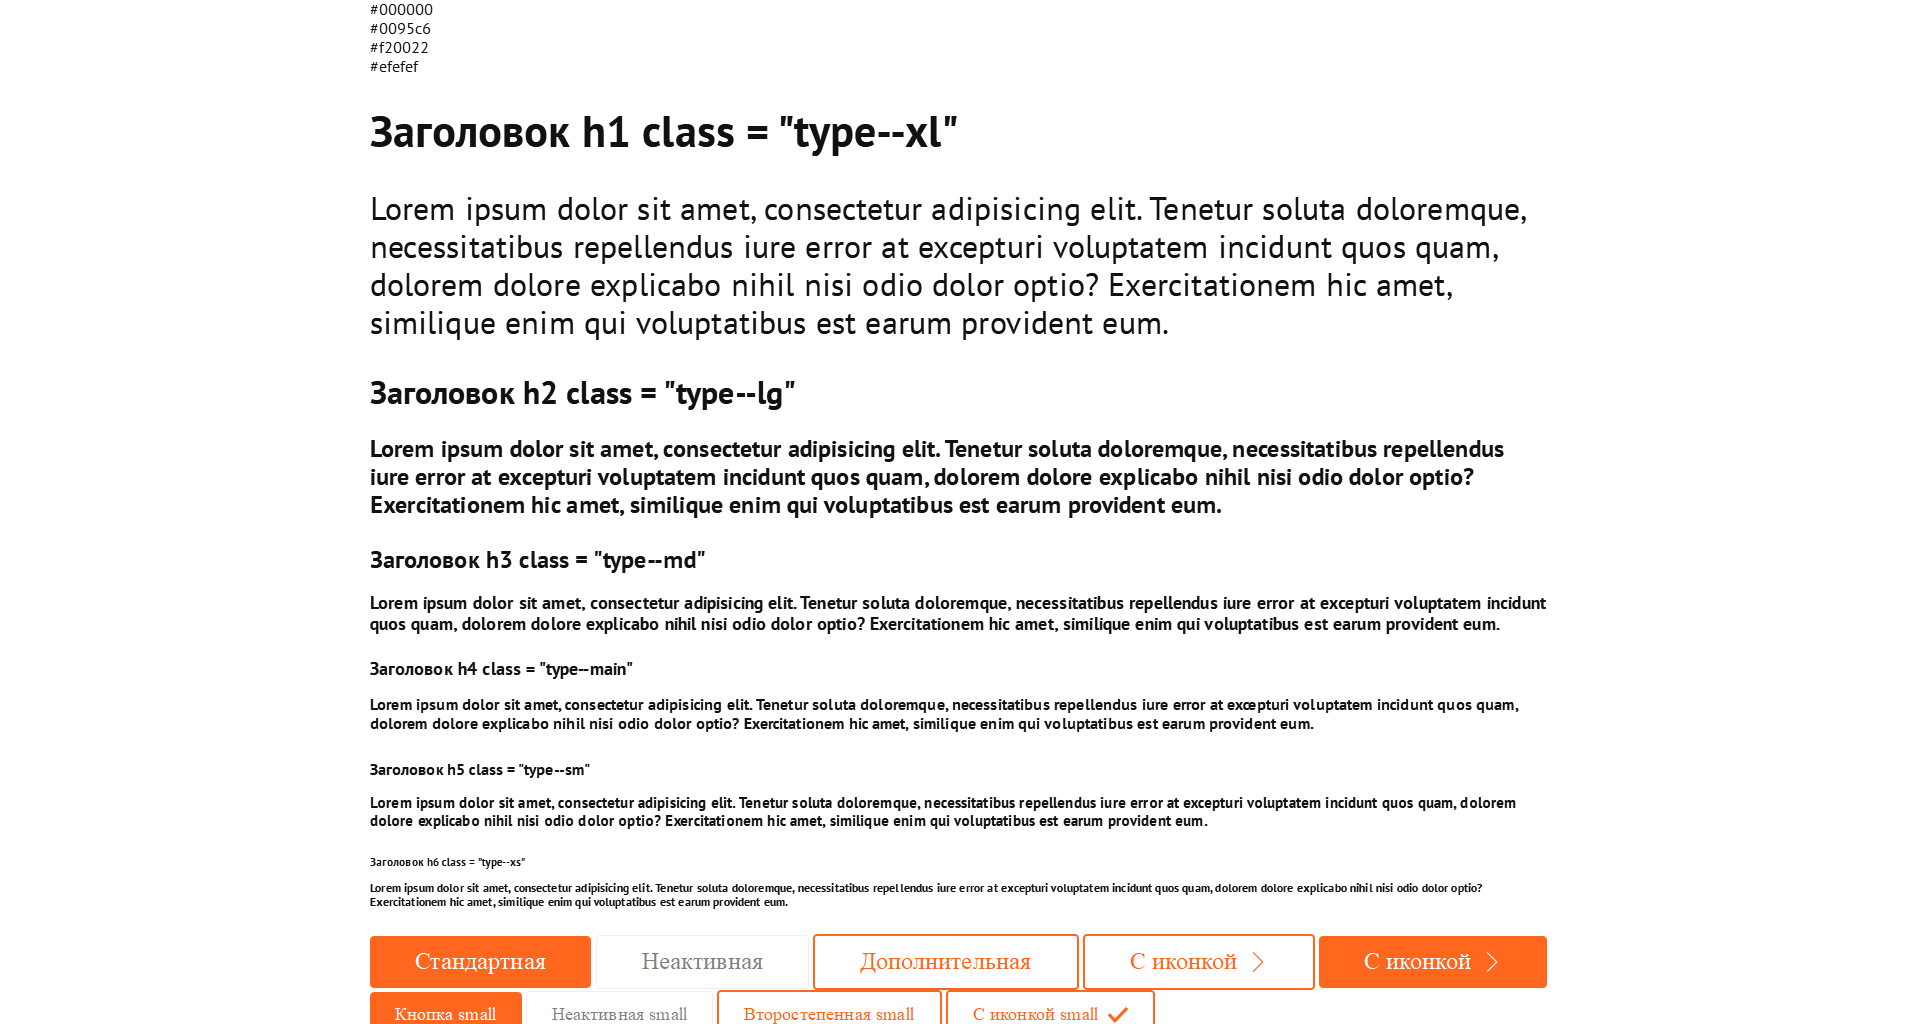
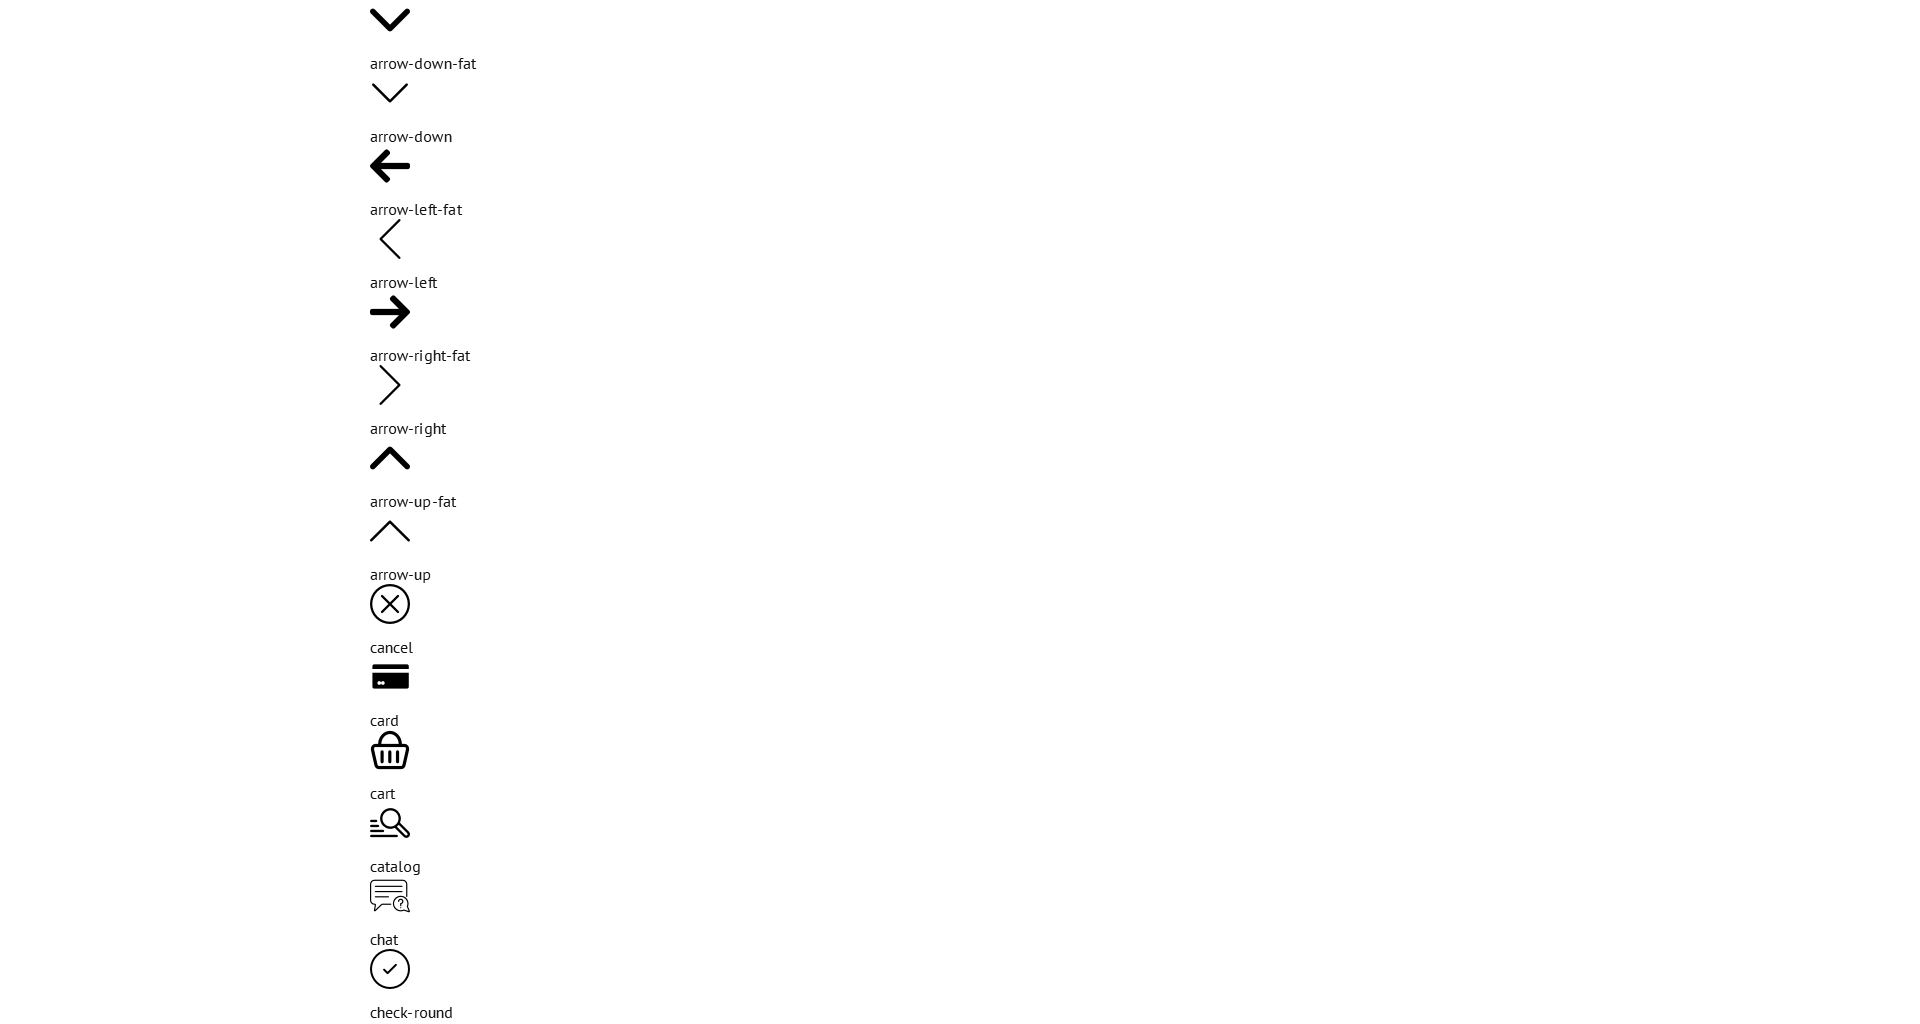
add fix title cat

Changed region(s): [[0.1875, 0.0, 0.8125, 1.0]]

diff --git a/app/elements.html b/app/elements.html
@@ -27,158 +27,26 @@
 </head>
 
 <body>
+    <style type="text/css">
+        .element-list-svg {
+        		display: grid;
+        		grid-gap:20px;
+        		grid-template-columns: repeat(auto-fill, minmax(12rem,1fr));
+        	}
+        	.icon-el {
+        		width: 40px;
+        		height: 40px;
+        		margin-bottom: 10px;
+        	
+        	}
+        	.element-list-svg__icon {
+        		display: flex;
+        		align-items: center;
+        		justify-content: center;
+        		flex-flow: column;
+        	}
+    </style>
     <div class="main-cont main-cont--all">
-        <div class="elements-hr"></div>
-        <div class="all-page-color">
-            <div class="all-page-color__el">
-                <div class="all-page-color__block" style="background-color:#000000"></div>
-                <div class="all-page-color__el-name">#000000</div>
-            </div>
-            <div class="all-page-color__el">
-                <div class="all-page-color__block" style="background-color:#0095c6"></div>
-                <div class="all-page-color__el-name">#0095c6</div>
-            </div>
-            <div class="all-page-color__el">
-                <div class="all-page-color__block" style="background-color:#f20022"></div>
-                <div class="all-page-color__el-name">#f20022</div>
-            </div>
-            <div class="all-page-color__el">
-                <div class="all-page-color__block" style="background-color:#efefef"></div>
-                <div class="all-page-color__el-name">#efefef</div>
-            </div>
-        </div>
-        <div class="elements-hr"></div>
-        <h1>Заголовок h1 class = "type--xl"</h1>
-        <p class="type--xl">Lorem ipsum dolor sit amet, consectetur adipisicing elit. Tenetur soluta doloremque, necessitatibus repellendus iure error at excepturi voluptatem incidunt quos quam, dolorem dolore explicabo nihil nisi odio dolor optio? Exercitationem hic amet,
-            similique enim qui voluptatibus est earum provident eum.</p>
-        <h2>Заголовок h2 class = "type--lg"
-            <p class="type--lg">Lorem ipsum dolor sit amet, consectetur adipisicing elit. Tenetur soluta doloremque, necessitatibus repellendus iure error at excepturi voluptatem incidunt quos quam, dolorem dolore explicabo nihil nisi odio dolor optio? Exercitationem hic
-                amet, similique enim qui voluptatibus est earum provident eum.</p>
-        </h2>
-        <h3>Заголовок h3 class = "type--md"
-            <p class="type--md">Lorem ipsum dolor sit amet, consectetur adipisicing elit. Tenetur soluta doloremque, necessitatibus repellendus iure error at excepturi voluptatem incidunt quos quam, dolorem dolore explicabo nihil nisi odio dolor optio? Exercitationem hic
-                amet, similique enim qui voluptatibus est earum provident eum.</p>
-        </h3>
-        <h4>Заголовок h4 class = "type--main"
-            <p class="type--main">Lorem ipsum dolor sit amet, consectetur adipisicing elit. Tenetur soluta doloremque, necessitatibus repellendus iure error at excepturi voluptatem incidunt quos quam, dolorem dolore explicabo nihil nisi odio dolor optio? Exercitationem hic
-                amet, similique enim qui voluptatibus est earum provident eum.</p>
-        </h4>
-        <h5>Заголовок h5 class = "type--sm"
-            <p class="type--sm">Lorem ipsum dolor sit amet, consectetur adipisicing elit. Tenetur soluta doloremque, necessitatibus repellendus iure error at excepturi voluptatem incidunt quos quam, dolorem dolore explicabo nihil nisi odio dolor optio? Exercitationem hic
-                amet, similique enim qui voluptatibus est earum provident eum.</p>
-        </h5>
-        <h6>Заголовок h6 class = "type--xs"
-            <p class="type--xs">Lorem ipsum dolor sit amet, consectetur adipisicing elit. Tenetur soluta doloremque, necessitatibus repellendus iure error at excepturi voluptatem incidunt quos quam, dolorem dolore explicabo nihil nisi odio dolor optio? Exercitationem hic
-                amet, similique enim qui voluptatibus est earum provident eum.</p>
-        </h6>
-        <div class="elements-hr"></div>
-        <a class="btn--md btn--mark" href="#">Стандартная</a>
-        <a class="btn--md btn--disable" href="#">Неактивная</a>
-        <a class="btn--md btn--light" href="#">Дополнительная</a>
-        <a class="btn--md btn--light" href="#">
-            <div class="btn--icon">
-                <span>C иконкой</span>
-                <svg class="nav-icon">
-                    <use xlink:href="#arrow-right"></use>
-                </svg>
-            </div>
-        </a>
-        <a class="btn--md btn--mark" href="#">
-            <div class="btn--icon">
-                <span>C иконкой</span>
-                <svg class="nav-icon">
-                    <use xlink:href="#arrow-right"></use>
-                </svg>
-            </div>
-        </a>
-        <div class="elements-hr"></div>
-        <a class="btn--sm btn--mark" href="#">Кнопка small</a>
-        <a class="btn--sm btn--disable" href="#">Неактивная small</a>
-        <a class="btn--sm btn--light" href="#">Второстепенная small</a>
-        <a class="btn--sm btn--light" href="#">
-            <div class="btn--icon">
-                <span>C иконкой small</span>
-                <svg class="nav-icon">
-                    <use xlink:href="#checked"></use>
-                </svg>
-            </div>
-        </a>
-        <div class="elements-hr"></div>
-        <div class="elements-buttons-block">
-            <button class="btn--sm btn--mark">Кнопка типа button</button>
-            <button class="btn--sm btn--light">Кнопка типа button</button>
-            <button class="btn--sm btn--disable">Кнопка типа button</button>
-            <input class="btn--sm btn--mark" type="submit" value="Кнопка типа submit" />
-            <input class="btn--sm btn--light" type="submit" value="Кнопка типа submit" />
-            <input class="btn--sm btn--disable" type="submit" value="Кнопка типа submit" />
-        </div>
-        <div class="elements-hr"></div>
-        <div class="elements-link-block">
-            <a class="link--mark" href="#">Цветная ссылка</a>
-            <a class="link--main" href="#">Новая ссылка</a>
-            <a class="link--text" href="#">Ссылка в тексте</a>
-        </div>
-        <div class="elements-hr"></div>
-        <div class="elements-input-block">
-            <input class="input" type="text" placeholder="Username" />
-            <input class="input" type="text" placeholder="Passwords" />
-            <textarea class="textarea" name="" cols="30" rows="10" placeholder="Text"></textarea>
-        </div>
-        <div class="elements-hr"></div>
-        <div class="elements-checkbox-block">
-            <div class="check-el">
-                <label class="style-label style-label--checkbox style-label--disable">
-                    <input class="style-input" type="checkbox" />
-                    <div class="style-input-element">
-                        <svg class="icon-check">
-                            <use xlink:href="#checked"></use>
-                        </svg>
-                    </div>
-                    <div class="style-input-text">Наименование услуги</div>
-                </label>
-            </div>
-            <br/>
-            <div class="check-el">
-                <label class="style-label style-label--checkbox">
-                    <input class="style-input" type="checkbox" />
-                    <div class="style-input-element">
-                        <svg class="icon-check">
-                            <use xlink:href="#checked"></use>
-                        </svg>
-                    </div>
-                    <div class="style-input-text">Наименование услуги</div>
-                </label>
-            </div>
-            <br/>
-            <div class="check-el">
-                <label class="style-label style-label--radio">
-                    <input class="style-input" type="radio" />
-                    <div class="style-input-element">
-                        <div class="icon-radio"></div>
-                    </div>
-                    <div class="style-input-text">Наименование услуги</div>
-                </label>
-            </div>
-            <br/>
-            <div class="check-el">
-                <label class="style-label style-label--radio">
-                    <input class="style-input" type="radio" name="disable" />
-                    <div class="style-input-element">
-                        <div class="icon-radio"></div>
-                    </div>
-                    <div class="style-input-text">Наименование услуги</div>
-                </label>
-            </div>
-            <br/>
-        </div>
-        <div class="element-select">
-            <select class="select-beauty select">
-                <option value="1" data-display="Выберите налог">Нет</option>
-                <option value="2">Новый налог 1</option>
-                <option value="3">Новый налог 2</option>
-                <option value="4">Новый налог 3</option>
-            </select>
-        </div>
         <div class="elements-hr"></div>
         <div class="element-list-svg">
             <div class="element-list-svg__icon">

diff --git a/app/css/style.css b/app/css/style.css
@@ -1587,10 +1587,12 @@ body {
   background: #eaebec;
   display: inline-block;
   font-family: "Handbook";
+  min-width: 120px;
 }
 @media only screen and (max-width: 768px) {
   .card-el__title {
     font-size: 24px;
+    min-width: 150px;
   }
 }
 .card-list {
@@ -1692,6 +1694,7 @@ body {
   display: flex;
   justify-content: space-between;
   align-items: center;
+  position: relative;
 }
 .slider-wrap--arrow .slider-item {
   width: calc(100% - 100px);
@@ -1753,7 +1756,7 @@ body {
 }
 @media only screen and (max-width: 720px) {
   .slick-dots {
-    bottom: -20px;
+    bottom: 0;
   }
 }
 @media only screen and (max-width: 720px) {

diff --git a/gulpfile.js b/gulpfile.js
@@ -388,7 +388,7 @@ gulp.task('build:ftp',function(){
 				'copy:css',
 				'min:css',
 				'min:js',
-				'screenshot',
+				//'screenshot',
 				'img',
 				'svg',
 				'make',
